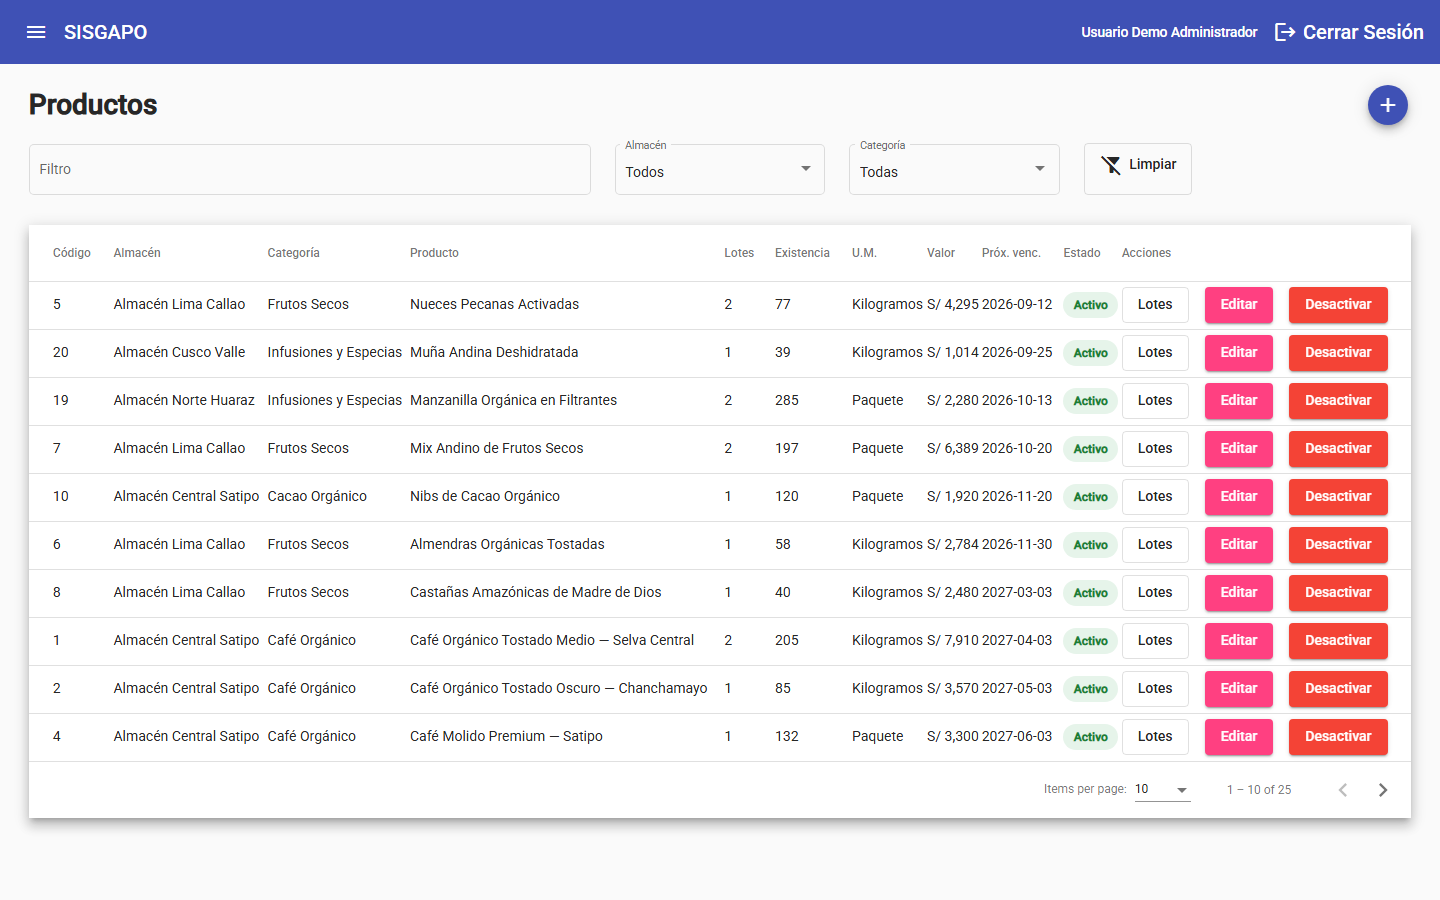
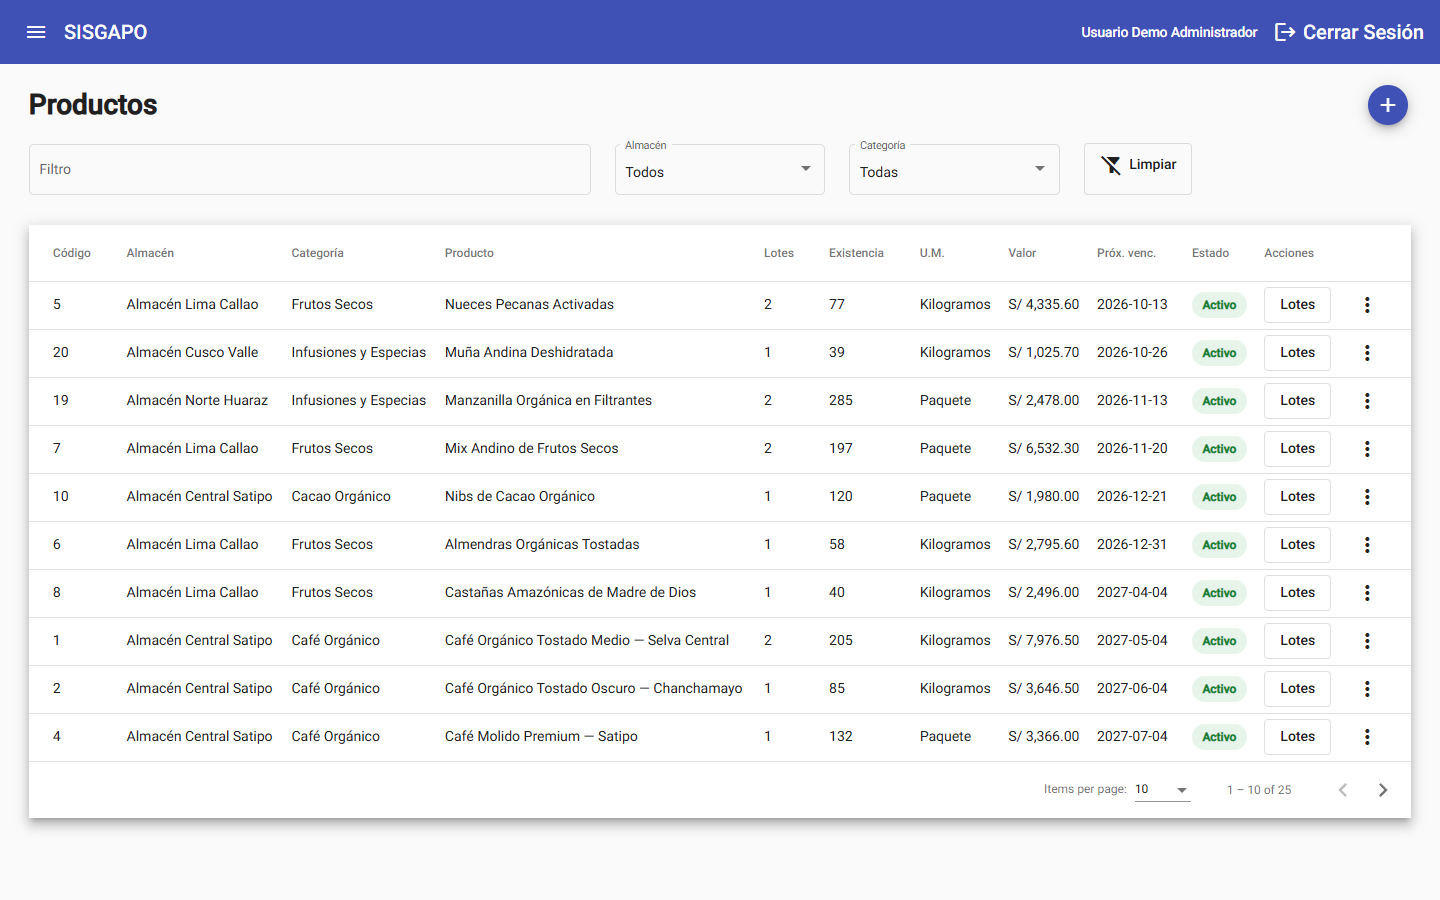
docs: recorrido en el navegador y en móvil, D-56 y captura de productos

diff --git a/sisgapo-docs/09-decisiones.md b/sisgapo-docs/09-decisiones.md
@@ -1421,6 +1421,38 @@ genérico. El formulario es la única puerta que usa una persona.
 
 ---
 
+## D-56 · En escritorio, Productos y Lotes guardan Editar y Dar de baja en un menú ⋮
+
+**La duda.** El recorrido en el navegador del 4 de octubre de 2026 encontró la tabla de Lotes
+ilegible a 1400 px: «CAF0001Café», «KilogramosS/ 38.502027-05-04». Material 14 solo da
+relleno horizontal a la primera y a la última celda de cada fila; mientras la tabla tenía
+sitio no se notaba, pero con diez columnas y tres botones de acción, los textos se juntaban.
+En Productos, el valor se partía en dos líneas: «S/» arriba y la cifra abajo.
+
+**Decisión, en tres partes.**
+
+- Todas las celdas de los listados llevan relleno a la derecha (`styles.css`).
+- Las cifras —existencia, precio, valor, fechas y saldo— no se parten (`celda-cifra`).
+- En Productos y Lotes, la acción que lleva a otra pantalla —*Lotes*, *Kardex*— se queda
+  como botón; *Editar* y *Dar de baja* o *Activar* pasan a un menú ⋮. Libera unos 230 px.
+
+**Por qué solo en esas dos.** Son las únicas con diez columnas y acciones; Usuarios,
+Almacenes y Categorías tienen sitio para los tres botones.
+
+**Por qué no también en el teléfono.** En las tarjetas de D-38 los botones ya caben a todo
+el ancho y se tocan mejor que un menú. Las dos versiones están en la plantilla y el CSS
+muestra una u otra (`acciones-secundarias`, `acciones-menu`). Es justo la duplicación que
+D-38 quería evitar, pero acotada a dos celdas de acciones y con los mismos `*ngIf` de
+permisos dentro.
+
+**Lo que trajo consigo.** En el panel, la cifra de *Valor del inventario* también se partía
+en un teléfono. Las cuatro tarjetas apilan ahora el icono sobre el texto por debajo de
+768 px.
+
+**Estado:** aplicada el 4 de octubre de 2026.
+
+---
+
 ## Resumen de las decisiones
 
 | # | Decisión | Nivel de duda |
@@ -1480,6 +1512,7 @@ genérico. El formulario es la única puerta que usa una persona.
 | D-53 | Los hallazgos con arreglo acotado se cierran; la API deja de admitir `pParametro` | Bajo — el único cambio de contrato no tiene cliente que lo use |
 | D-54 | La documentación termina en el 10: manual de usuario; la migración y el 11, al histórico; las mejoras, en el 08 | Ninguno |
 | D-55 | Las cantidades siguen siendo enteras; los formularios rechazan decimales con un mensaje claro | Bajo — es una limitación real para productos a granel, medida y aceptada |
+| D-56 | En escritorio, Productos y Lotes guardan Editar y Dar de baja en un menú ⋮ | Ninguno — es presentación |
 
 **Las tres que más merecen tu revisión: D-01, D-04 y D-09.**
 De las anteriores, la discutible es **D-24**: `localStorage` es la opción cómoda, no la

diff --git a/sisgapo-docs/10-manual-de-usuario.md b/sisgapo-docs/10-manual-de-usuario.md
@@ -144,7 +144,8 @@ puede desactivar**.
 
 Es el catálogo. Se filtra por texto, almacén y categoría. Cada fila resume las partidas del
 producto: cuántos lotes tiene, la existencia total con su unidad de medida, el valor y el
-vencimiento más próximo. El botón **Lotes** de cada fila lleva a sus partidas (sección 10).
+vencimiento más próximo. El botón **Lotes** de cada fila lleva a sus partidas (sección 10);
+*Editar* y *Desactivar* están en el menú ⋮ de la fila.
 
 **Alta.** *Agregar producto* pide nombre, almacén, categoría y los datos de la primera
 partida: cantidad, unidad de medida, precio por unidad y fechas de fabricación y
@@ -167,7 +168,8 @@ el mismo café puede tener dos lotes que vencen en meses distintos. Se llega des
 *Inventario → Lotes* o desde el botón *Lotes* de un producto, que deja el filtro puesto.
 
 El listado se filtra por texto, almacén, categoría y producto. Cada fila tiene **Kardex**,
-que abre la historia de ese lote en Movimientos, *Editar* y *Dar de baja* o *Activar*.
+que abre la historia de ese lote en Movimientos, y el menú ⋮ con *Editar* y *Dar de baja* o
+*Activar*. En un teléfono esas acciones salen como botones al pie de cada tarjeta.
 
 **Alta.** *Agregar lote* pide el producto —se busca escribiendo su nombre o el del almacén—,
 el código, la cantidad inicial, la unidad de medida, el precio y las fechas.

diff --git a/sisgapo-docs/05-frontend.md b/sisgapo-docs/05-frontend.md
@@ -239,6 +239,11 @@ llevan su rótulo en `data-label`; el filtro, el paginador y el modo consulta si
 mismos. Movimientos no se convierte: en ese ancho arranca en la vista de cronología. Ver
 `09-decisiones.md`, D-38.
 
+En escritorio, **Productos y Lotes muestran un solo botón por fila** —*Lotes* o *Kardex*— y
+guardan *Editar* y *Dar de baja* en un menú ⋮. Las dos versiones de las acciones están en la
+plantilla: `acciones-secundarias` son los botones de las tarjetas y `acciones-menu` el menú,
+y `styles.css` enseña una u otra según el ancho. Ver `09-decisiones.md`, D-56.
+
 `AppDateAdapter` (`shared/services/AppDateAdapter.ts`) adapta el formato de fecha de Material
 al formato que espera el backend.
 

diff --git a/sisgapo-docs/07-plan-demo.md b/sisgapo-docs/07-plan-demo.md
@@ -151,7 +151,7 @@ enlace no responde, arranca Docker y sigue en local sin perder el ritmo.
 - [x] `docker compose up` probado desde cero
 - [x] Base de datos poblada (5 zonas, 5 almacenes, 7 categorías, 25 productos, 33 lotes, 61 movimientos)
 - [x] Capturas del panel, acceso y productos en el README
-- [ ] Recorrido completo en el navegador, con la consola abierta y en móvil
+- [x] Recorrido completo en el navegador, con la consola abierta y en móvil — 4 de octubre de 2026, sin errores en consola; dejó D-56
 
 **Cinco minutos antes de cada reunión**
 - [ ] Abrir el enlace público: ya no se duerme, pero confirma que el servidor responde
